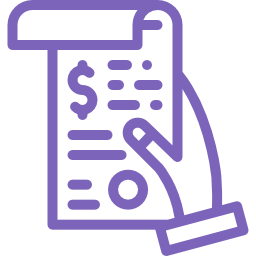
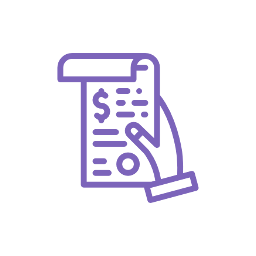
features images fix

diff --git a/index.html b/index.html
@@ -55,7 +55,7 @@
             <div class="col-xs-6 col-md-3 col-sm-3">
                 <div class="feature-center">
                         <span class="icon">
-                        <img src="images/1.png"/>
+                        <img src="images/1(2).png"/>
                         </span>
                     <h3>Logowanie</h3>
                     <p>Po uzyskaniu dostępu do aplikacji, przedstawiona zostanie historia transakcji z minionych tygodni
